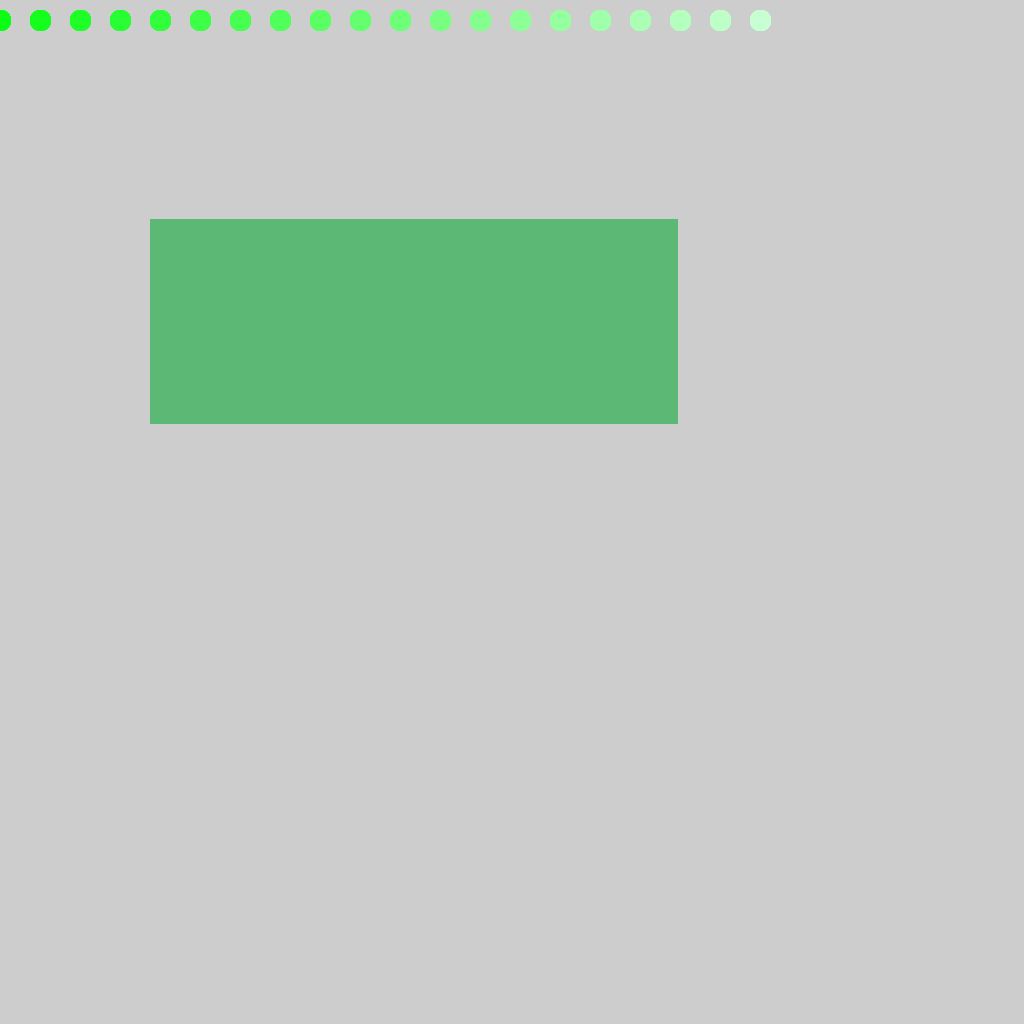
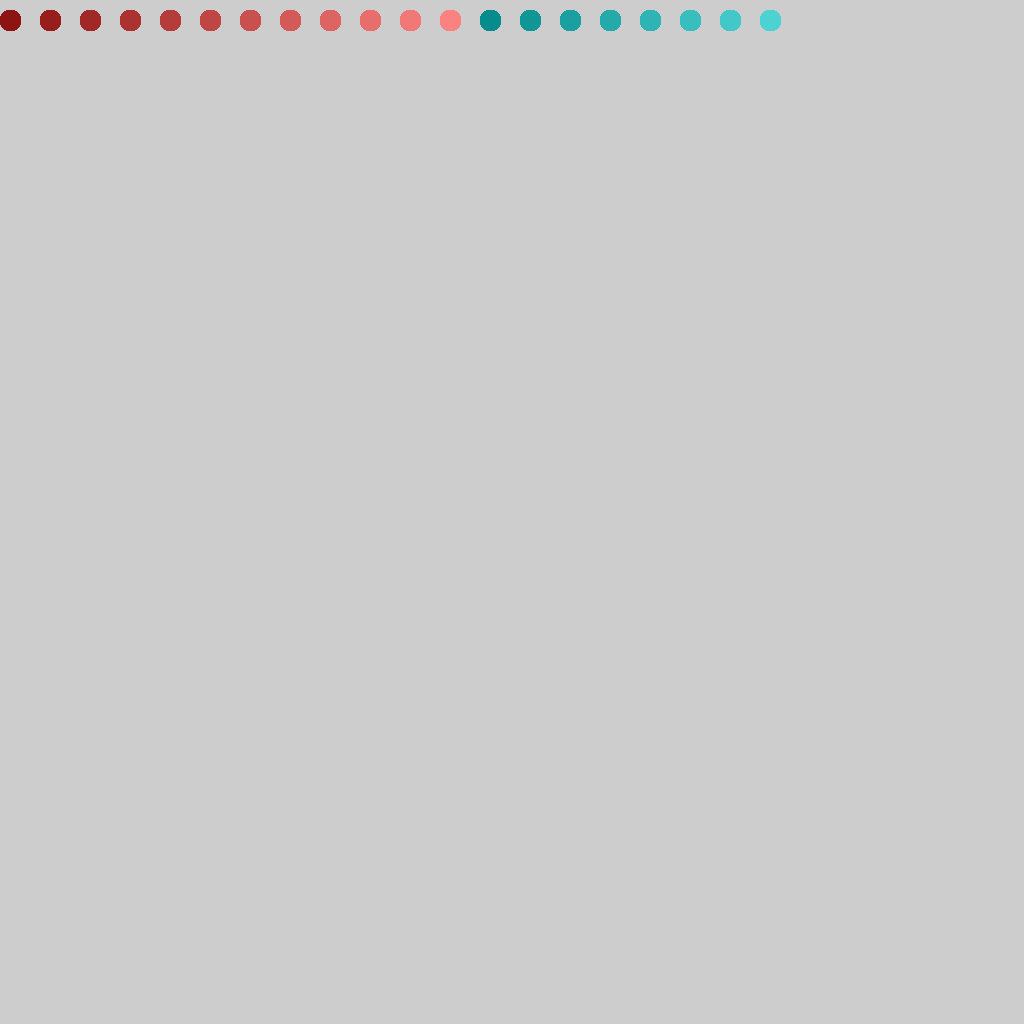
changed the area of the random rectangles

Changed region(s): [[0.125, 0.1875, 0.6875, 0.4375], [0.0, 0.0, 0.7812, 0.0312]]

diff --git a/src/HomeWork1App.cpp b/src/HomeWork1App.cpp
@@ -88,8 +88,9 @@ void HomeWork1App::setup()
 		
    //This is the setup that everyone needs to do
 	mySurface_ = new Surface(kTextureSize,kTextureSize,false);
-	circleColor = Color8u(0,10,255);
-	
+
+	//Set up for the gradient in the circles requiremnt A4
+	circleColor = Color8u(132,10,10);
 }
 
 void HomeWork1App::mouseDown( MouseEvent event )
@@ -112,22 +113,21 @@ void HomeWork1App::update()
 	Color8u fill1 = Color8u(red,green,blue);
 
 	//creates random dimension for each rectangle.
-	int xValue = (rand() % 200 + 50);
-	int yValue = (rand() % 200 + 50);
-	int width = (rand() % 500 + 200);
-	int height = (rand() % 500 + 200);
+	int xValue = (rand() % 400 + 90);
+	int yValue = (rand() % 400 + 90);
+	int width = (rand() % 400 + 100);
+	int height = (rand() % 400 + 100);
 	
 	//draws the rectangles.
 	drawRectangles(dataArray,xValue,yValue,width,height, fill1);
 	
-	//Fullfils the gradient requirment inside the circles.
+//Fulfills the gradient requirment A4 inside the circles.
 //Variable initialization needed to create the gradient circle
 
-
 	//Draws a row of circles.
-	int x = 0;
-	while(x<800){
-
+	int circleX = 10;
+	while(circleX<800){
+	//Satisfies requirment gradient requirement A4
 	if(circleColor.r<255) circleColor.r = circleColor.r + 10;
 	if(circleColor.r>255) circleColor.r = circleColor.r - 10;
 	if(circleColor.b<255) circleColor.b = circleColor.b + 10;
@@ -135,8 +135,8 @@ void HomeWork1App::update()
 	if(circleColor.g<255) circleColor.g = circleColor.g + 10;
 	if(circleColor.g>255) circleColor.g = circleColor.g - 10;
 
-	drawCircle(dataArray, x, 20, 10, circleColor);
-	x = x+40;
+	drawCircle(dataArray, circleX, 20, 10, circleColor);
+	circleX = circleX + 40;
 		}
 	
 	
